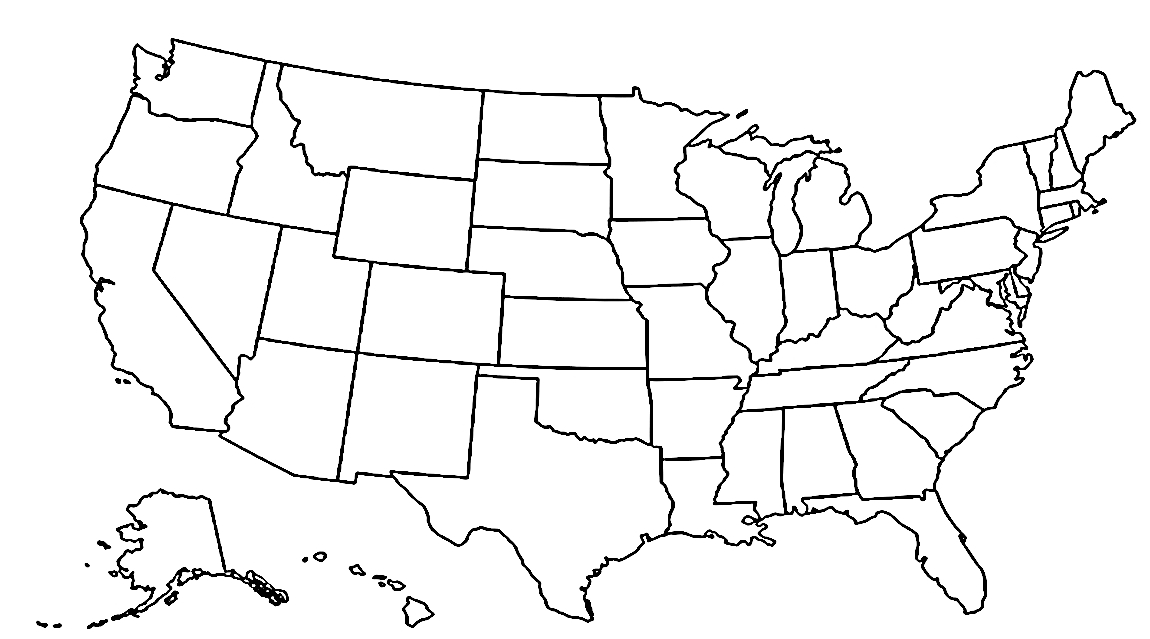
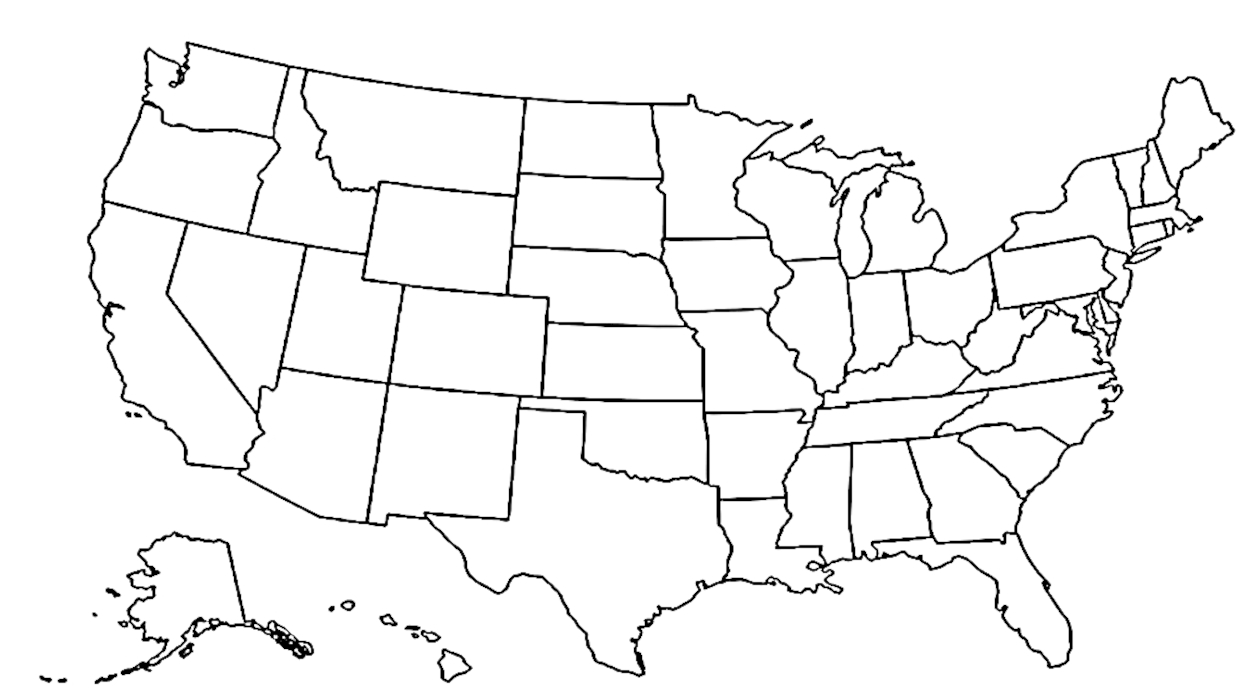
changed sharpen and size of us map image

diff --git a/app/static/styles/homeStyle.css b/app/static/styles/homeStyle.css
@@ -109,7 +109,7 @@ body {
 
 #geoMapDiv {
     width: 81em;
-    height: 35em;
+    height: 40em;
     border: 2px solid black;
     float: left;
     margin-top: 1em;
